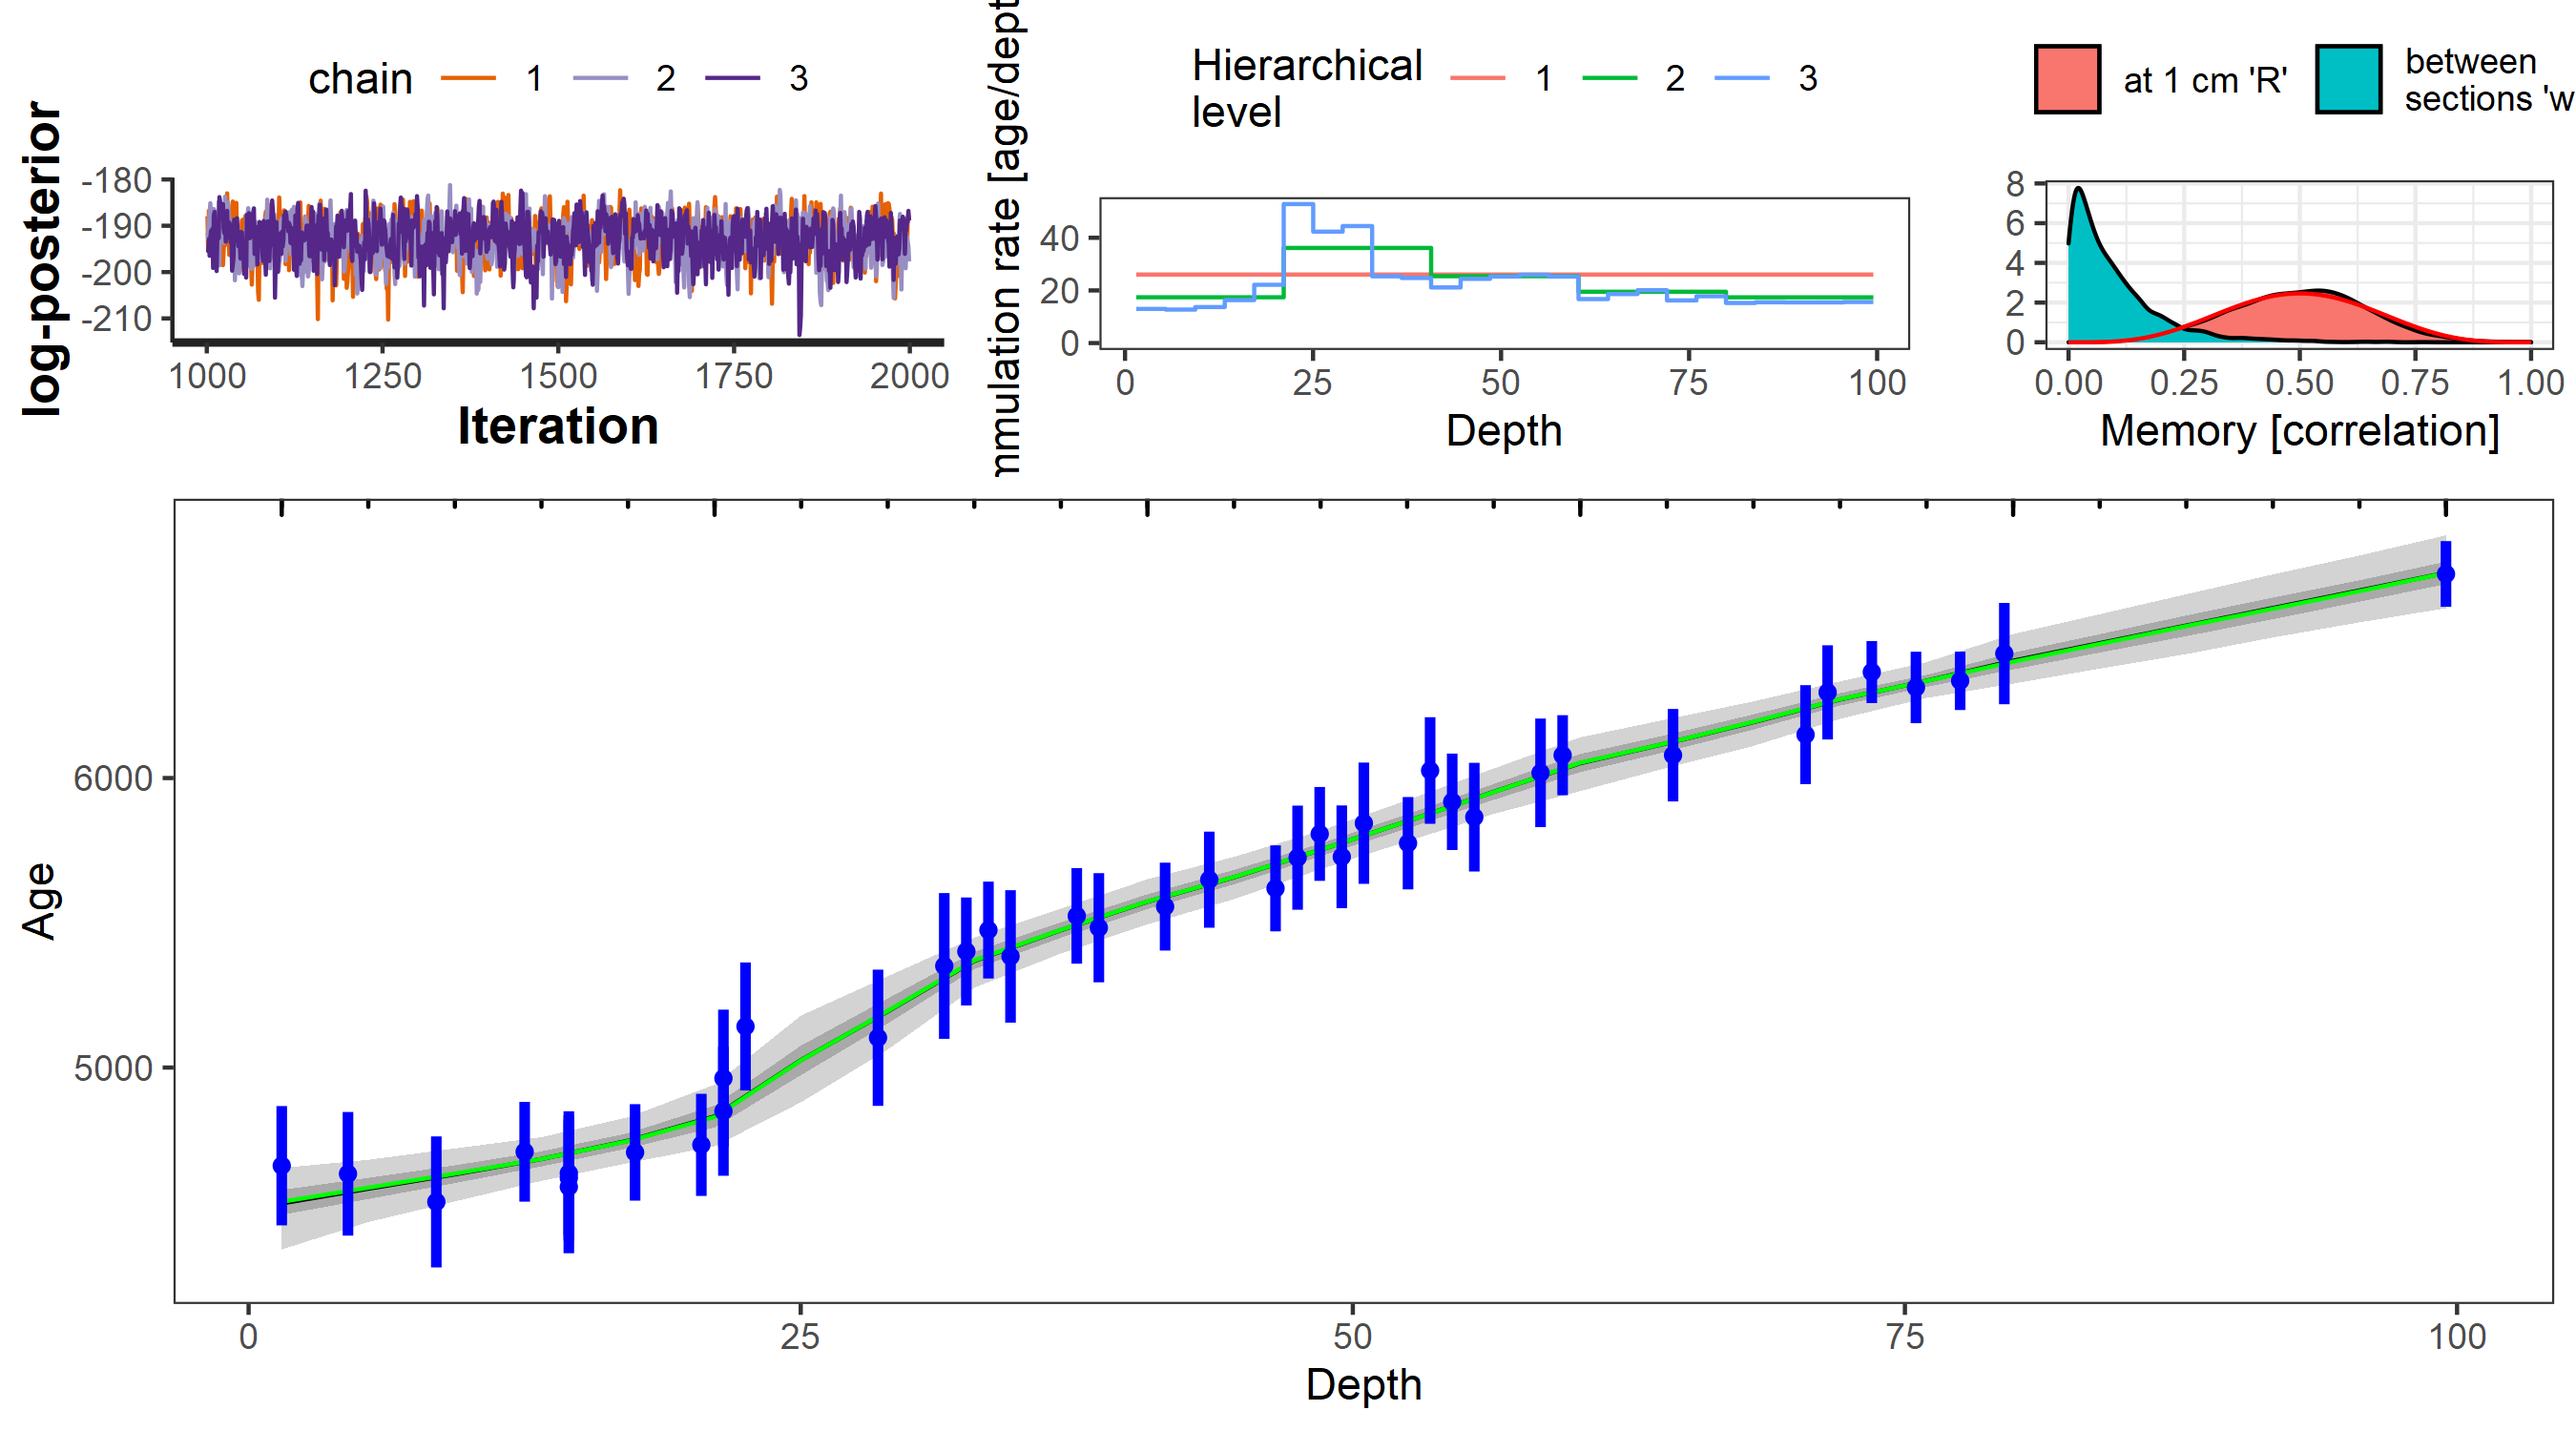
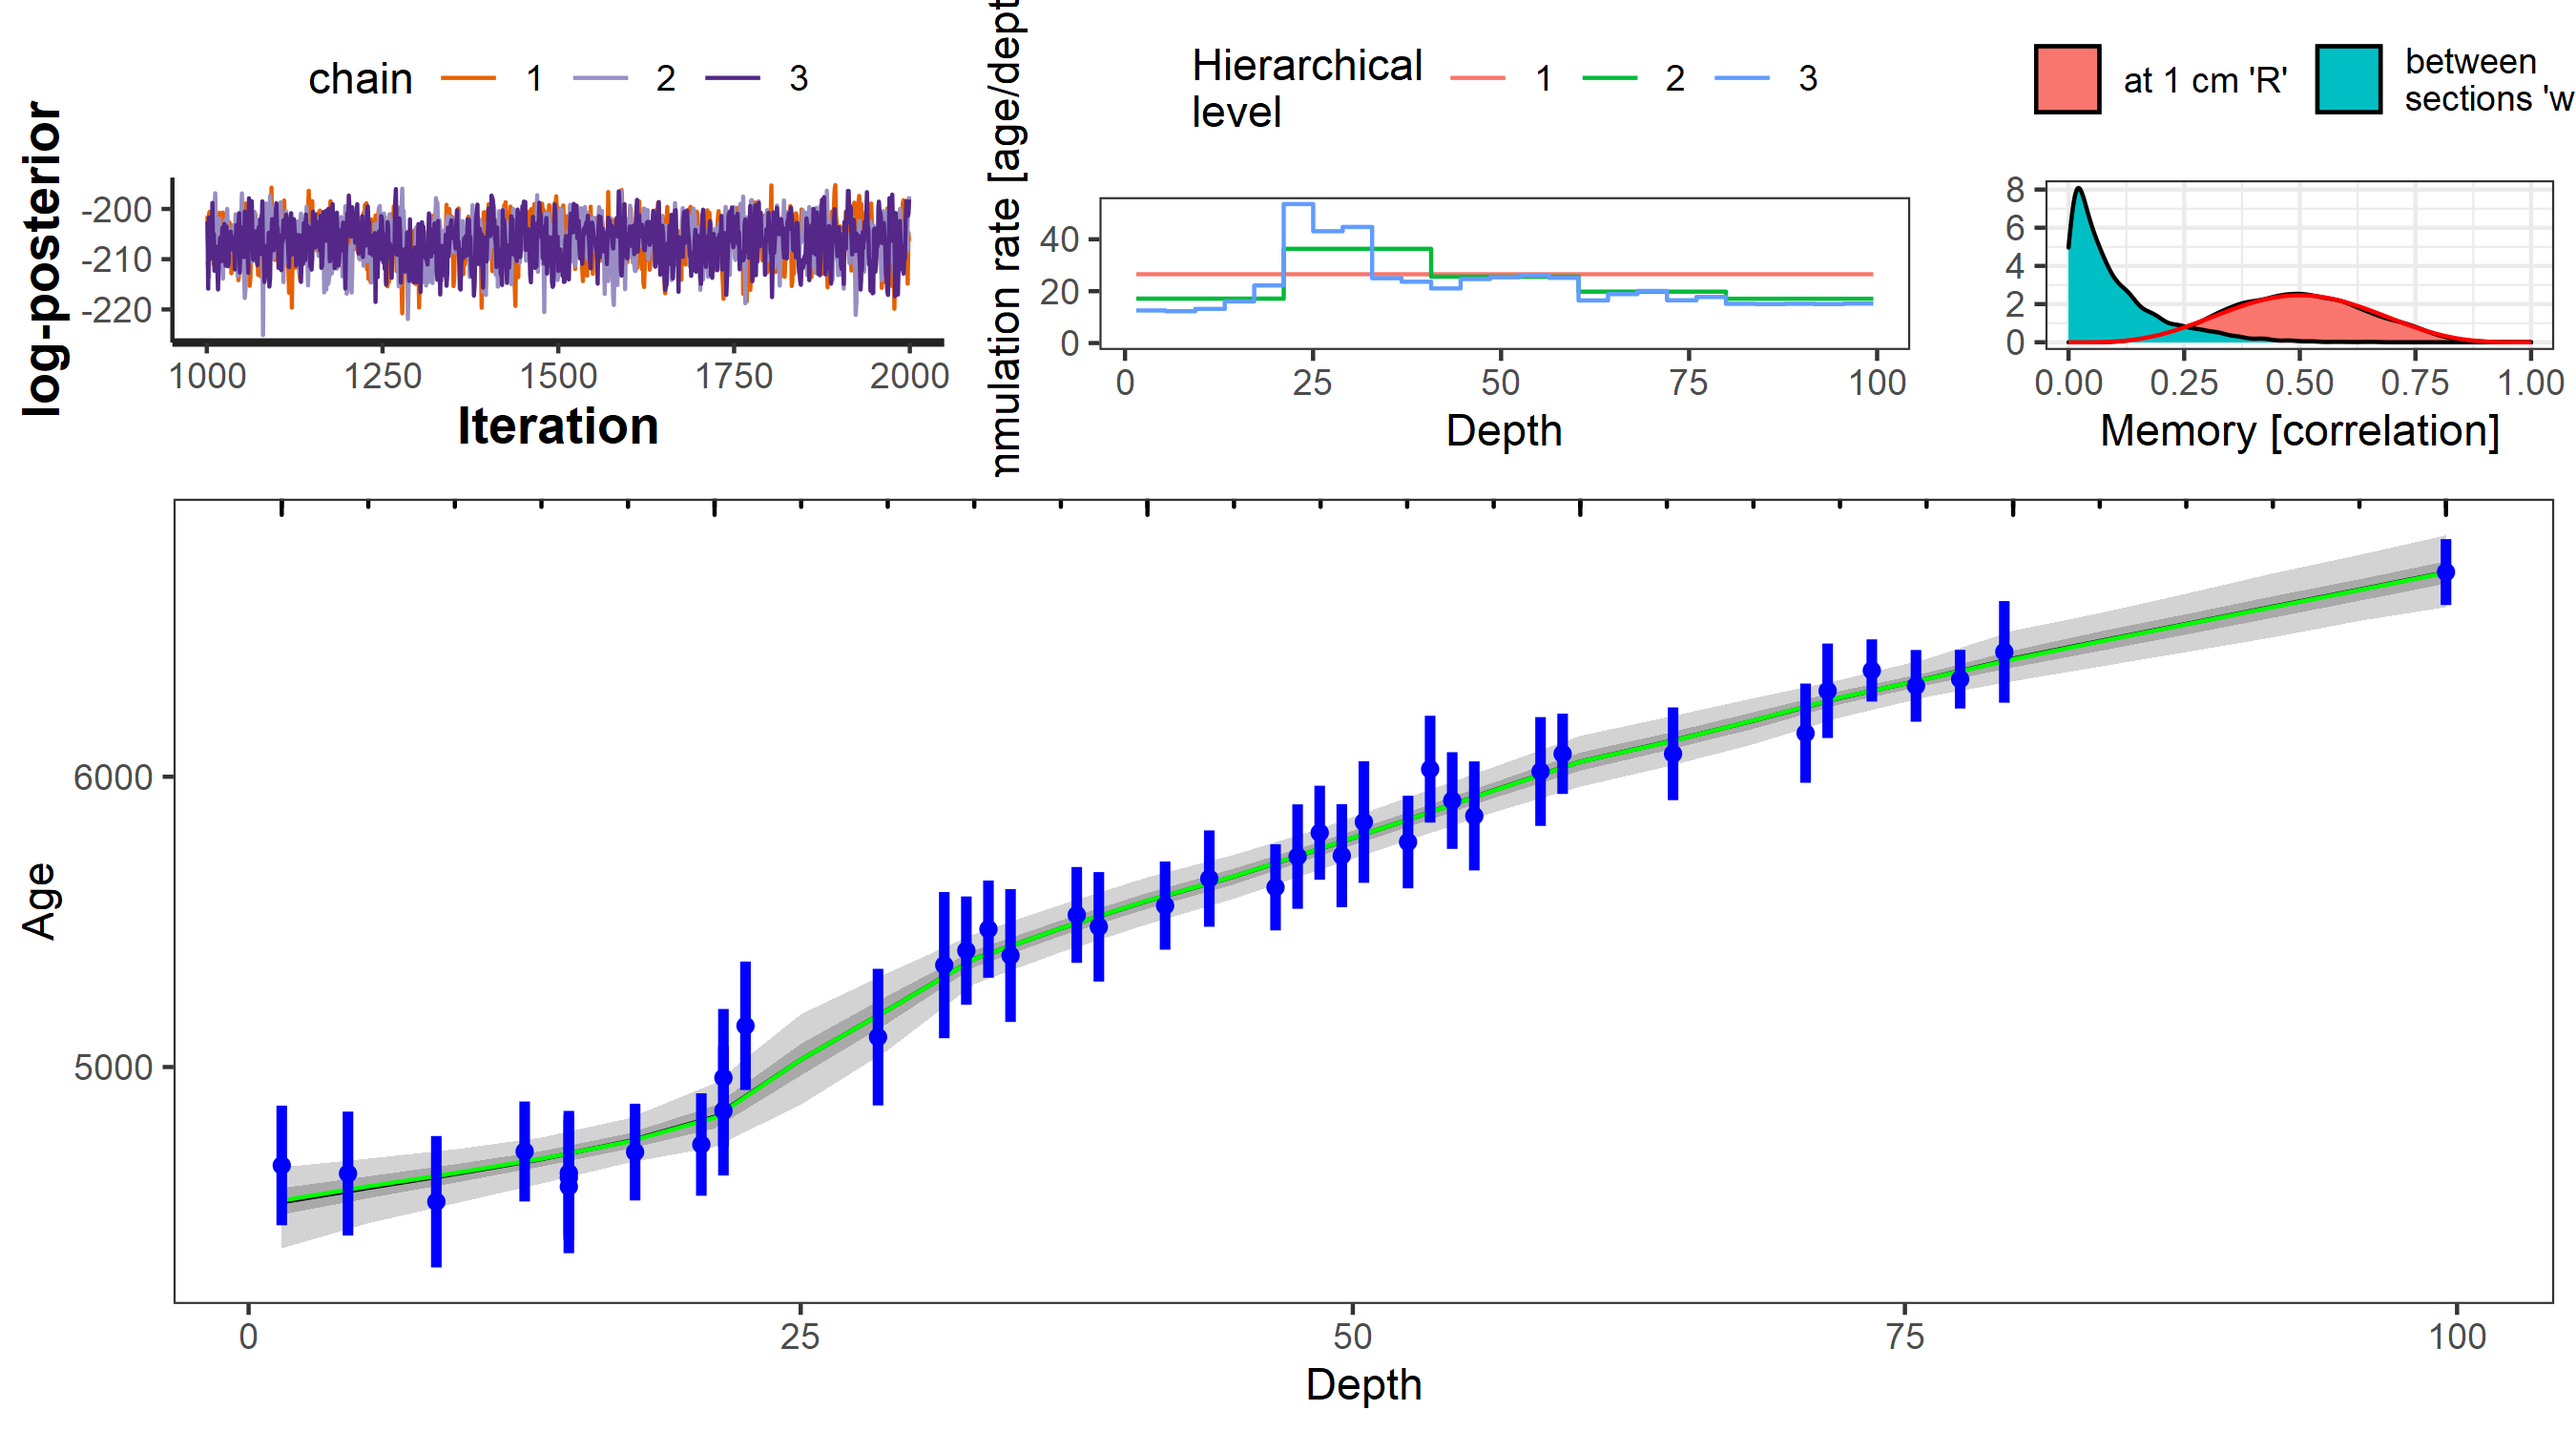
change acc_shape scaling to control shape not variance

diff --git a/README.md b/README.md
@@ -1,7 +1,7 @@
 hamstr: Hierarchical Accumulation Modelling with Stan and R.
 ================
 Andrew M. Dolman
-2021-05-10
+2021-06-17
 
 ------------------------------------------------------------------------
 
@@ -116,6 +116,8 @@ along the top of the age-model plot.
 
 ``` r
 plot(hamstr_fit_1)
+#> Joining, by = "idx"
+#> Joining, by = "alpha_idx"
 ```
 
 ![](readme_files/figure-gfm/unnamed-chunk-8-1.png)<!-- -->
@@ -128,6 +130,7 @@ Additionally, plotting of the diagnostic plots can be switched off.
 
 ``` r
 plot(hamstr_fit_1, summarise = FALSE, plot_diagnostics = FALSE)
+#> Joining, by = "idx"
 ```
 
 ![](readme_files/figure-gfm/unnamed-chunk-9-1.png)<!-- -->
@@ -210,6 +213,81 @@ hamstr_fit_2 <- hamstr(depth = MSB2K_cal$depth,
                    obs_age = MSB2K_cal$age.14C.cal,
                    obs_err = MSB2K_cal$age.14C.cal.se,
                    K = c(5, 5))
+#> 
+#> SAMPLING FOR MODEL 'hamstr' NOW (CHAIN 1).
+#> Chain 1: 
+#> Chain 1: Gradient evaluation took 0 seconds
+#> Chain 1: 1000 transitions using 10 leapfrog steps per transition would take 0 seconds.
+#> Chain 1: Adjust your expectations accordingly!
+#> Chain 1: 
+#> Chain 1: 
+#> Chain 1: Iteration:    1 / 2000 [  0%]  (Warmup)
+#> Chain 1: Iteration:  200 / 2000 [ 10%]  (Warmup)
+#> Chain 1: Iteration:  400 / 2000 [ 20%]  (Warmup)
+#> Chain 1: Iteration:  600 / 2000 [ 30%]  (Warmup)
+#> Chain 1: Iteration:  800 / 2000 [ 40%]  (Warmup)
+#> Chain 1: Iteration: 1000 / 2000 [ 50%]  (Warmup)
+#> Chain 1: Iteration: 1001 / 2000 [ 50%]  (Sampling)
+#> Chain 1: Iteration: 1200 / 2000 [ 60%]  (Sampling)
+#> Chain 1: Iteration: 1400 / 2000 [ 70%]  (Sampling)
+#> Chain 1: Iteration: 1600 / 2000 [ 80%]  (Sampling)
+#> Chain 1: Iteration: 1800 / 2000 [ 90%]  (Sampling)
+#> Chain 1: Iteration: 2000 / 2000 [100%]  (Sampling)
+#> Chain 1: 
+#> Chain 1:  Elapsed Time: 2.354 seconds (Warm-up)
+#> Chain 1:                1.965 seconds (Sampling)
+#> Chain 1:                4.319 seconds (Total)
+#> Chain 1: 
+#> 
+#> SAMPLING FOR MODEL 'hamstr' NOW (CHAIN 2).
+#> Chain 2: 
+#> Chain 2: Gradient evaluation took 0 seconds
+#> Chain 2: 1000 transitions using 10 leapfrog steps per transition would take 0 seconds.
+#> Chain 2: Adjust your expectations accordingly!
+#> Chain 2: 
+#> Chain 2: 
+#> Chain 2: Iteration:    1 / 2000 [  0%]  (Warmup)
+#> Chain 2: Iteration:  200 / 2000 [ 10%]  (Warmup)
+#> Chain 2: Iteration:  400 / 2000 [ 20%]  (Warmup)
+#> Chain 2: Iteration:  600 / 2000 [ 30%]  (Warmup)
+#> Chain 2: Iteration:  800 / 2000 [ 40%]  (Warmup)
+#> Chain 2: Iteration: 1000 / 2000 [ 50%]  (Warmup)
+#> Chain 2: Iteration: 1001 / 2000 [ 50%]  (Sampling)
+#> Chain 2: Iteration: 1200 / 2000 [ 60%]  (Sampling)
+#> Chain 2: Iteration: 1400 / 2000 [ 70%]  (Sampling)
+#> Chain 2: Iteration: 1600 / 2000 [ 80%]  (Sampling)
+#> Chain 2: Iteration: 1800 / 2000 [ 90%]  (Sampling)
+#> Chain 2: Iteration: 2000 / 2000 [100%]  (Sampling)
+#> Chain 2: 
+#> Chain 2:  Elapsed Time: 2.014 seconds (Warm-up)
+#> Chain 2:                1.74 seconds (Sampling)
+#> Chain 2:                3.754 seconds (Total)
+#> Chain 2: 
+#> 
+#> SAMPLING FOR MODEL 'hamstr' NOW (CHAIN 3).
+#> Chain 3: 
+#> Chain 3: Gradient evaluation took 0 seconds
+#> Chain 3: 1000 transitions using 10 leapfrog steps per transition would take 0 seconds.
+#> Chain 3: Adjust your expectations accordingly!
+#> Chain 3: 
+#> Chain 3: 
+#> Chain 3: Iteration:    1 / 2000 [  0%]  (Warmup)
+#> Chain 3: Iteration:  200 / 2000 [ 10%]  (Warmup)
+#> Chain 3: Iteration:  400 / 2000 [ 20%]  (Warmup)
+#> Chain 3: Iteration:  600 / 2000 [ 30%]  (Warmup)
+#> Chain 3: Iteration:  800 / 2000 [ 40%]  (Warmup)
+#> Chain 3: Iteration: 1000 / 2000 [ 50%]  (Warmup)
+#> Chain 3: Iteration: 1001 / 2000 [ 50%]  (Sampling)
+#> Chain 3: Iteration: 1200 / 2000 [ 60%]  (Sampling)
+#> Chain 3: Iteration: 1400 / 2000 [ 70%]  (Sampling)
+#> Chain 3: Iteration: 1600 / 2000 [ 80%]  (Sampling)
+#> Chain 3: Iteration: 1800 / 2000 [ 90%]  (Sampling)
+#> Chain 3: Iteration: 2000 / 2000 [100%]  (Sampling)
+#> Chain 3: 
+#> Chain 3:  Elapsed Time: 3.01 seconds (Warm-up)
+#> Chain 3:                1.879 seconds (Sampling)
+#> Chain 3:                4.889 seconds (Total)
+#> Chain 3:
 ```
 
 ``` r
@@ -247,18 +325,18 @@ predict(hamstr_fit_1)
 ``` r
 summary(hamstr_fit_1)
 #> # A tibble: 81 x 13
-#>    depth   idx par    mean se_mean    sd `2.5%` `25%` `50%` `75%` `97.5%` n_eff
-#>    <dbl> <dbl> <chr> <dbl>   <dbl> <dbl>  <dbl> <dbl> <dbl> <dbl>   <dbl> <dbl>
-#>  1  1.5      1 c_ag~ 4498.   2.28   67.4  4357. 4455. 4503. 4544.   4617.  875.
-#>  2  2.72     2 c_ag~ 4515.   2.07   62.3  4386. 4477. 4519. 4559.   4627.  908.
-#>  3  3.95     3 c_ag~ 4534.   1.87   58.1  4417. 4498. 4536. 4574.   4639.  965.
-#>  4  5.18     4 c_ag~ 4552.   1.68   54.7  4442. 4517. 4554. 4589.   4653. 1059.
-#>  5  6.4      5 c_ag~ 4570.   1.54   52.3  4461. 4537. 4571. 4605.   4666. 1155.
-#>  6  7.62     6 c_ag~ 4588.   1.45   50.9  4482. 4556. 4590. 4621.   4682. 1233.
-#>  7  8.85     7 c_ag~ 4607.   1.31   48.0  4508. 4576. 4608. 4638.   4696. 1348.
-#>  8 10.1      8 c_ag~ 4626.   1.13   44.7  4535. 4596. 4626. 4656.   4710. 1573.
-#>  9 11.3      9 c_ag~ 4645.   0.931  42.1  4560. 4617. 4645. 4674.   4726. 2051.
-#> 10 12.5     10 c_ag~ 4664.   0.806  40.6  4583. 4637. 4664. 4692.   4743. 2535.
+#>    depth   idx par     mean se_mean    sd `2.5%` `25%` `50%` `75%` `97.5%` n_eff
+#>    <dbl> <dbl> <chr>  <dbl>   <dbl> <dbl>  <dbl> <dbl> <dbl> <dbl>   <dbl> <dbl>
+#>  1  1.5      1 c_age~ 4498.   2.28   67.4  4357. 4455. 4503. 4544.   4617.  875.
+#>  2  2.72     2 c_age~ 4515.   2.07   62.3  4386. 4477. 4519. 4559.   4627.  908.
+#>  3  3.95     3 c_age~ 4534.   1.87   58.1  4417. 4498. 4536. 4574.   4639.  965.
+#>  4  5.18     4 c_age~ 4552.   1.68   54.7  4442. 4517. 4554. 4589.   4653. 1059.
+#>  5  6.4      5 c_age~ 4570.   1.54   52.3  4461. 4537. 4571. 4605.   4666. 1155.
+#>  6  7.62     6 c_age~ 4588.   1.45   50.9  4482. 4556. 4590. 4621.   4682. 1233.
+#>  7  8.85     7 c_age~ 4607.   1.31   48.0  4508. 4576. 4608. 4638.   4696. 1348.
+#>  8 10.1      8 c_age~ 4626.   1.13   44.7  4535. 4596. 4626. 4656.   4710. 1573.
+#>  9 11.3      9 c_age~ 4645.   0.931  42.1  4560. 4617. 4645. 4674.   4726. 2051.
+#> 10 12.5     10 c_age~ 4664.   0.806  40.6  4583. 4637. 4664. 4692.   4743. 2535.
 #> # ... with 71 more rows, and 1 more variable: Rhat <dbl>
 ```
 
@@ -303,6 +381,7 @@ options.
 
 ``` r
 plot(hamstr_fit_1, type = "hier_acc")
+#> Joining, by = "alpha_idx"
 ```
 
 ![](readme_files/figure-gfm/unnamed-chunk-17-1.png)<!-- -->

diff --git a/NEWS.md b/NEWS.md
@@ -1,10 +1,16 @@
-# hamstr 0.5.1
+## hamstr 0.5.2
 
-New default hierarchical structure K based on default resolution of 1 cm (up to 1000 cm)
+* Minor change to the way acc_shape is adjusted to account for the number of hierarchical levels. 
+* acc_shape is now adjusted to control the shape of the gamma distributed alpha parameters, not the total variance. The difference is minor.
+
+
+## hamstr 0.5.1
+
+* New default hierarchical structure K based on default resolution of 1 cm (up to 1000 cm)
 and number of levels approximately equal to number of new child sections per parent per level.
 
 
-# hamstr 0.5.0
+## hamstr 0.5.0
 
 * Significant update to behaviour when using hierarchical structure. The acc_shape 
 parameter is now adjusted to control the total variance in the alpha parameters 
@@ -13,18 +19,18 @@ when there are multiple levels
 updated defaults from bacon 2.5.1 onwards
 
 
-# hamstr 0.4.1
+## hamstr 0.4.1
 
 * Methods written for generic functions plot and summary
 
 
-# hamstr 0.4
+## hamstr 0.4
 
 * Package and main function renamed to hamstr (hierarchical accumulation models with Stan and R)
 * dev branch with hierarchical sections merged to master
 
 
-# baconr 0.2
+## baconr 0.2
 
 * Hiatuses can now be modelled
 * Added more information to the summary figure
